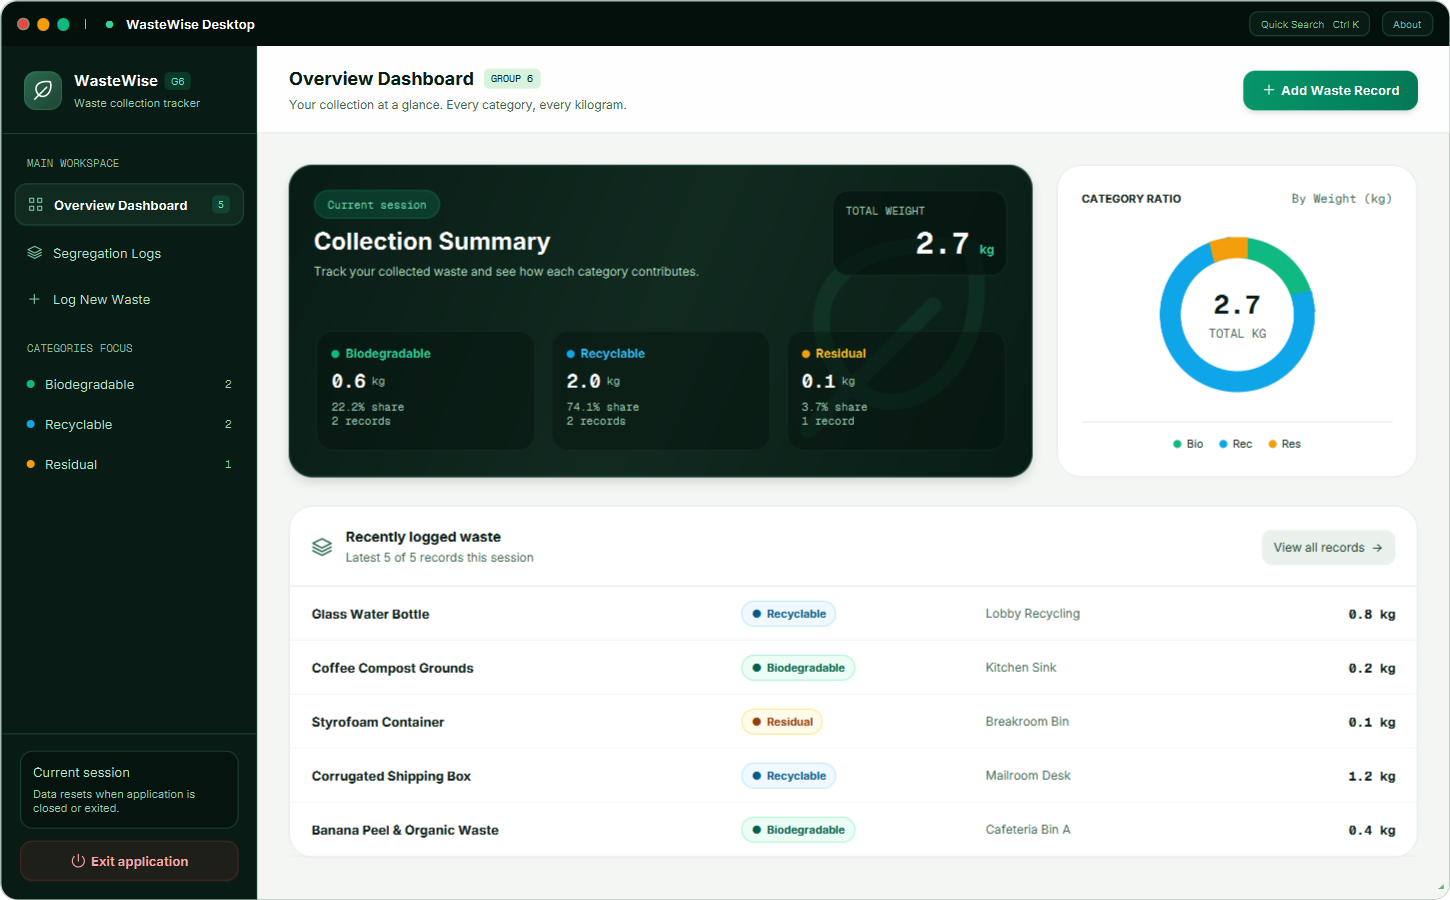
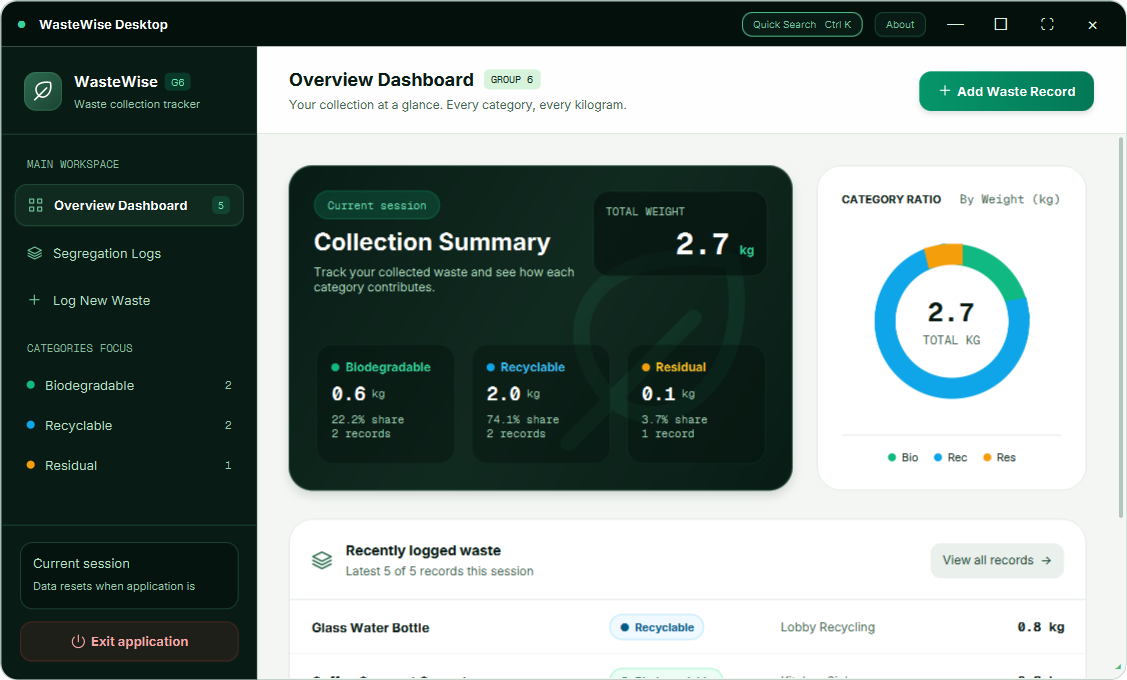
small update

diff --git a/README.md b/README.md
@@ -7,7 +7,7 @@ A native JavaFX + CSS implementation of the supplied WasteWise HTML design. Uses
 1. Extract the entire ZIP to a folder. Keep `lib`, `build`, and `src` together.
 2. Install **JDK 21 or later** if needed. The project was tested on the installed JDK 26.0.1 with JavaFX 21.0.6, compiling for Java 21. JavaFX's Windows x64 libraries and the fonts are included.
 3. Double-click **Launch WasteWise.vbs** for an empty tracker, or **Demo WasteWise.vbs** for the five sample records from the HTML reference.
-4. Add records with **Add Waste Record**. Exit using the red window button or **Exit Java Program**.
+4. Add records with **Add Waste Record**. Exit using the top-right close button or **Exit Java Program**.
 
 These launchers open the application without a console window. If Windows Script Host is disabled, use PowerShell:
 
@@ -54,7 +54,7 @@ The build creates timestamped JAR files, and the launcher selects the newest one
 - Removal uses stable record IDs even after sorting or filtering. Undo restores the most recent deletion to its original list position. Another deletion replaces that undo target.
 - Sort table columns by clicking their headings.
 - Empty states, notifications, exit confirmation, real JVM heap usage.
-- Drag the title bar to move the window. Use the yellow/green controls to minimize/maximize; the lower-right grip resizes it. Minimum size: 1120 × 740.
+- Drag the title bar to move the window. Use the top-right minimize and maximize/restore controls; the lower-right grip resizes it. Minimum size: 1120 × 640 on a screen large enough to fit it.
 - Ctrl+K: search; Ctrl+N: add; Ctrl+Z: undo last deletion; Escape: dismiss dialog; Delete: remove selected table record.
 
 ## OOP structure
@@ -94,3 +94,8 @@ Third-party notices are in `licenses/`. JavaFX: GPL v2 with Classpath Exception;
 ## Readability and navigation polish
 
 Text and table rows use larger type with darker secondary text. The overview heading is now Collection Summary. The title bar contains only the application name, Quick Search and About; JavaFX, ArrayList, Java version and live JVM memory information are in About. Category cards on both screens are keyboard-focusable buttons: select one to open that category and clear stale search text. The Total Collection card shows all records. The rounded application border remains, without the outer frame.
+
+
+## Window controls
+
+The application starts windowed and adapts its initial size to the display. Top-right controls provide minimize, maximize/restore, full screen, and close. Double-click a non-button area of the title bar to maximize/restore. Press F11 to toggle full screen, or Escape to leave it. Maximize uses the monitor work area so the taskbar remains available. Drag the lower-right grip to resize a normal window.
